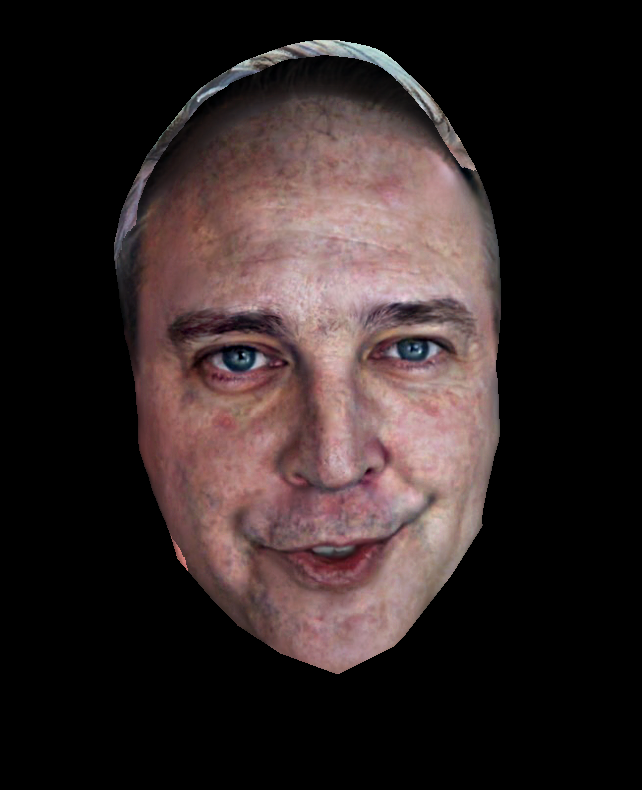
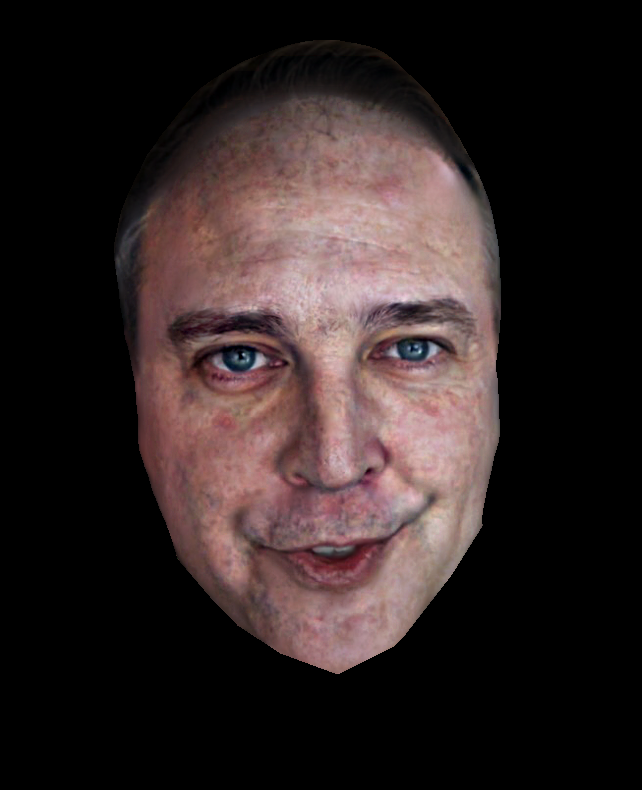
modify Gapp

diff --git a/code/Gapp/generateGapp.py b/code/Gapp/generateGapp.py
@@ -53,4 +53,4 @@ if __name__ == '__main__':
     matched = localMatching(warped, input_img, style_mask, input_mask, vx, vy)
     matched = replaceBackground(matched, style_img, input_img, style_mask, input_mask, vx, vy)
     cv2.imwrite(style_dir+"/"+"G_app/"+sys.argv[2], style_img)
-    cv2.imwrite(input_dir+"/"+"G_app/"+sys.argv[4], cv2.cvtColor(np.float32(matched), cv2.COLOR_BGR2RGB))
+    cv2.imwrite(input_dir+"/"+"G_app/"+sys.argv[4], matched)

diff --git a/code/Gapp/myStyleTransferFunc.py b/code/Gapp/myStyleTransferFunc.py
@@ -105,4 +105,4 @@ def replaceBackground(matched, style, input, style_mask, input_mask, vx, vy):
     # plt.tight_layout(w_pad=0.1)
     # plt.show()
     # imsave('output/temp.jpg', style.astype(int))
-    return output
+    return matched
